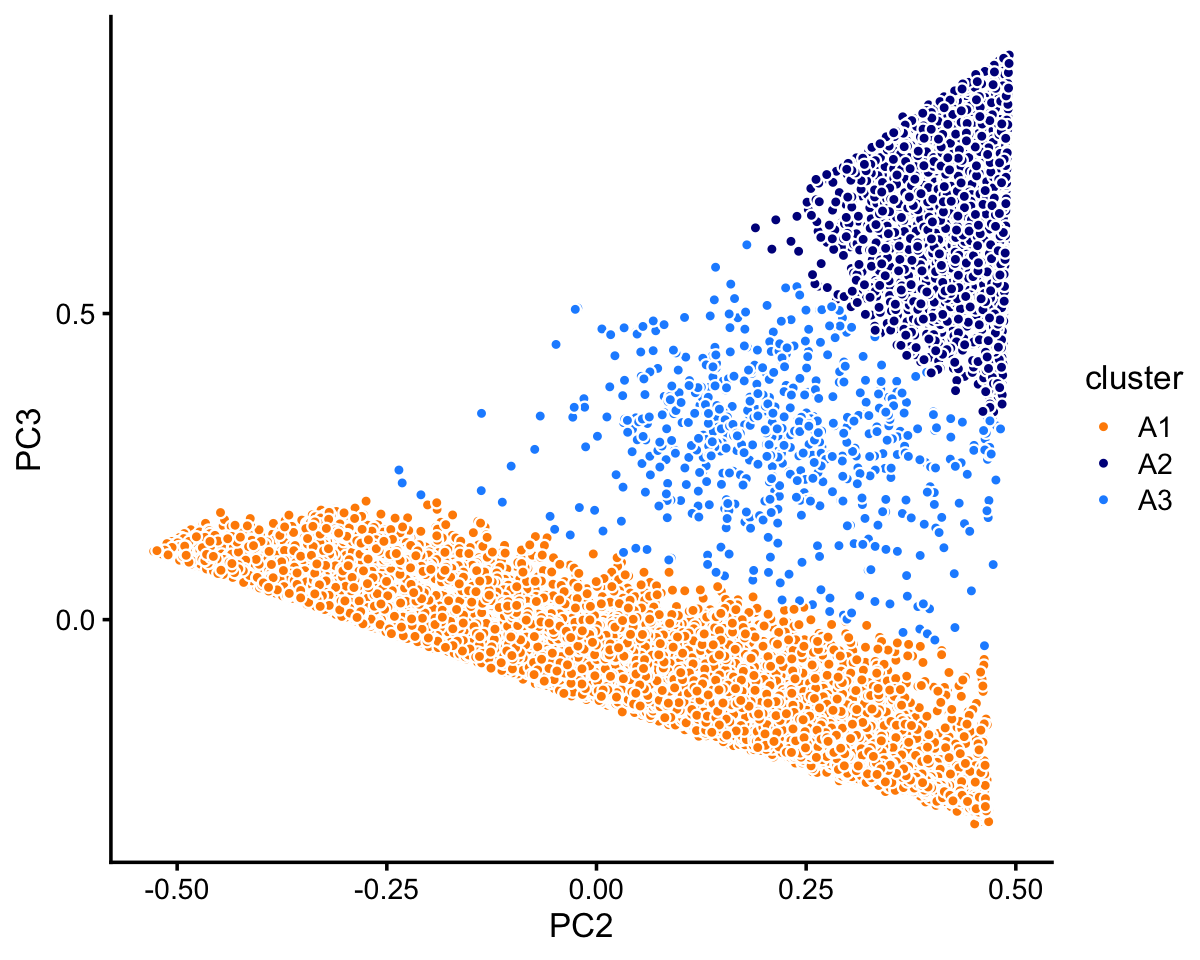
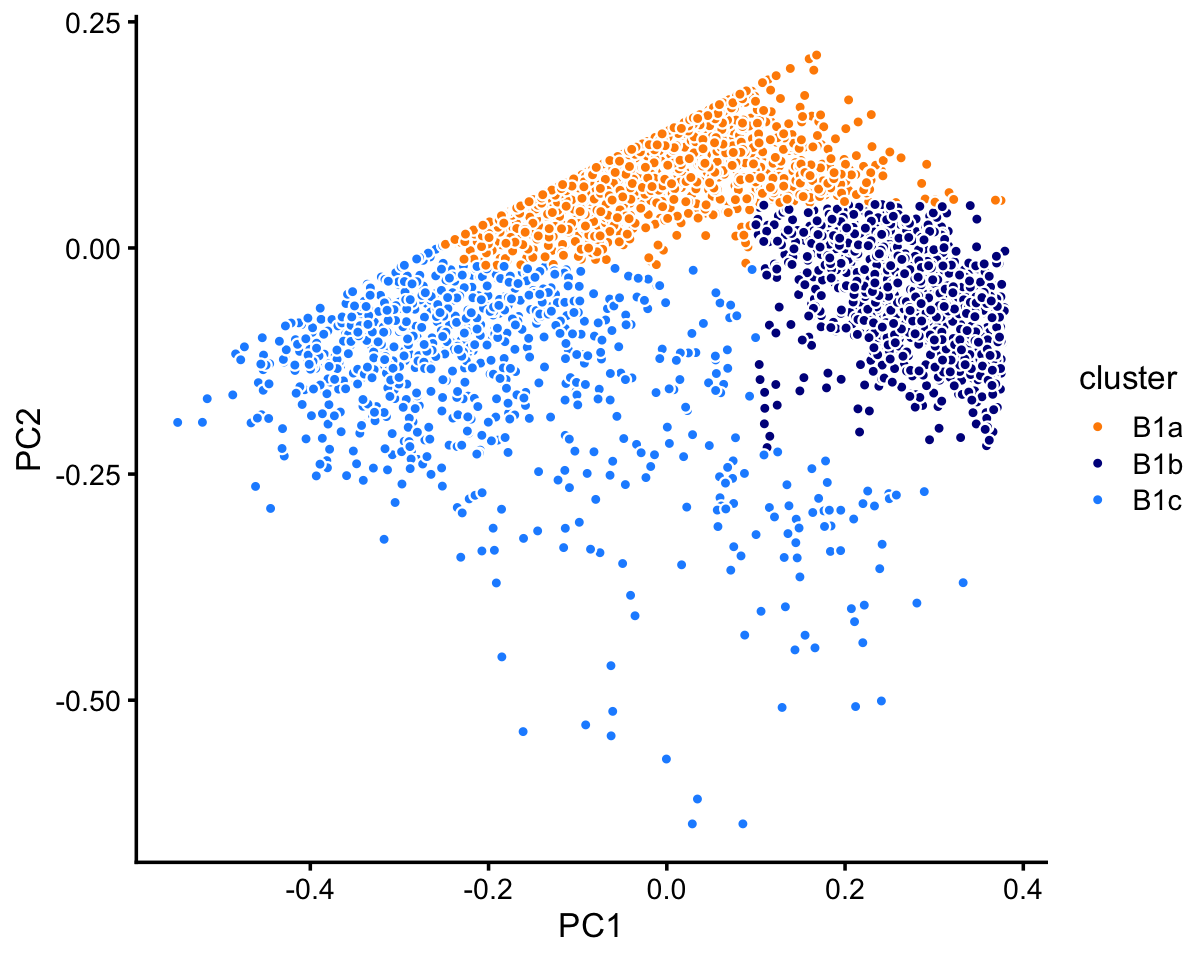
Added another few clusters to 68k fit, revised structure plot, and added crosstab plot.

diff --git a/docs/plots_pbmc.html b/docs/plots_pbmc.html
@@ -412,16 +412,16 @@ This reproducible <a href="http://rmarkdown.rstudio.com">R Markdown</a> analysis
 <div class="panel panel-default">
 <div class="panel-heading">
 <p class="panel-title">
-<a data-toggle="collapse" data-parent="#workflowr-checks" href="#strongRepositoryversionstrongahrefhttpsgithubcomstephenslabsinglecelltopicstreee8971d86164615e8337d2690a577bb3e6d465acdtargetblanke8971d8a"> <span class="glyphicon glyphicon-ok text-success" aria-hidden="true"></span> <strong>Repository version:</strong> <a href="https://github.com/stephenslab/single-cell-topics/tree/e8971d86164615e8337d2690a577bb3e6d465acd" target="_blank">e8971d8</a> </a>
+<a data-toggle="collapse" data-parent="#workflowr-checks" href="#strongRepositoryversionstrongahrefhttpsgithubcomstephenslabsinglecelltopicstree1a0c2d87fc7537d01c7bf1a36cdeb03684dfae90targetblank1a0c2d8a"> <span class="glyphicon glyphicon-ok text-success" aria-hidden="true"></span> <strong>Repository version:</strong> <a href="https://github.com/stephenslab/single-cell-topics/tree/1a0c2d87fc7537d01c7bf1a36cdeb03684dfae90" target="_blank">1a0c2d8</a> </a>
 </p>
 </div>
[2 lines of base64/hex data omitted]
 <div class="panel-body">
 <p>
 Great! You are using Git for version control. Tracking code development and connecting the code version to the results is critical for reproducibility.
 </p>
 <p>
-The results in this page were generated with repository version <a href="https://github.com/stephenslab/single-cell-topics/tree/e8971d86164615e8337d2690a577bb3e6d465acd" target="_blank">e8971d8</a>. See the <em>Past versions</em> tab to see a history of the changes made to the R Markdown and HTML files.
+The results in this page were generated with repository version <a href="https://github.com/stephenslab/single-cell-topics/tree/1a0c2d87fc7537d01c7bf1a36cdeb03684dfae90" target="_blank">1a0c2d8</a>. See the <em>Past versions</em> tab to see a history of the changes made to the R Markdown and HTML files.
 </p>
 <p>
 Note that you need to be careful to ensure that all relevant files for the analysis have been committed to Git prior to generating the results (you can use <code>wflow_publish</code> or <code>wflow_git_commit</code>). workflowr only checks the R Markdown file, but you know if there are other scripts or data files that it depends on. Below is the status of the Git repository when the results were generated:
@@ -478,6 +478,57 @@ Message
 </tr>
 </thead>
 <tbody>
+<tr>
+<td>
+Rmd
+</td>
+<td>
+<a href="https://github.com/stephenslab/single-cell-topics/blob/1a0c2d87fc7537d01c7bf1a36cdeb03684dfae90/analysis/plots_pbmc.Rmd" target="_blank">1a0c2d8</a>
+</td>
+<td>
+Peter Carbonetto
+</td>
+<td>
+2020-08-25
+</td>
+<td>
+workflowr::wflow_publish(“plots_pbmc.Rmd”)
+</td>
+</tr>
+<tr>
+<td>
+html
+</td>
+<td>
+<a href="https://rawcdn.githack.com/stephenslab/single-cell-topics/eac2d23a7e084d60d7821643a185ad2e45d8092a/docs/plots_pbmc.html" target="_blank">eac2d23</a>
+</td>
+<td>
+Peter Carbonetto
+</td>
+<td>
+2020-08-25
+</td>
+<td>
+Revised the cross-tab plot, and added notes to plots_pbmc analysis.
+</td>
+</tr>
+<tr>
+<td>
+html
+</td>
+<td>
+<a href="https://rawcdn.githack.com/stephenslab/single-cell-topics/2d156b8fefbcb1c1c65e7040c43eedff5fbf5657/docs/plots_pbmc.html" target="_blank">2d156b8</a>
+</td>
+<td>
+Peter Carbonetto
+</td>
+<td>
+2020-08-25
+</td>
+<td>
+Revised the cross-tab plot, and added notes to plots_pbmc analysis.
+</td>
+</tr>
 <tr>
 <td>
 Rmd
@@ -1530,6 +1581,7 @@ table(samples_purified$cluster)
 # 
 #    A1    A2     B    C1    C2    C3 
 #  8271 64343 10439  7822  2990   790</code></pre>
+<p>We also inspected principal components individually in each of these 6 clusters and we did not find any of clear examples of subclustering withing these clusters.</p>
 <p>The structure plot summarizes the topic proportions in each of these 6 clusters:</p>
 <pre class="r"><code>set.seed(1)
 pbmc_purified_topic_colors &lt;- c(&quot;gold&quot;,&quot;forestgreen&quot;,&quot;dodgerblue&quot;,
@@ -1571,6 +1623,28 @@ Date
 </tr>
 </thead>
 <tbody>
+<tr>
+<td>
+<a href="https://github.com/stephenslab/single-cell-topics/blob/eac2d23a7e084d60d7821643a185ad2e45d8092a/docs/figure/plots_pbmc.Rmd/pbmc-purified-structure-plot-1.png" target="_blank">eac2d23</a>
+</td>
+<td>
+Peter Carbonetto
+</td>
+<td>
+2020-08-25
+</td>
+</tr>
+<tr>
+<td>
+<a href="https://github.com/stephenslab/single-cell-topics/blob/2d156b8fefbcb1c1c65e7040c43eedff5fbf5657/docs/figure/plots_pbmc.Rmd/pbmc-purified-structure-plot-1.png" target="_blank">2d156b8</a>
+</td>
+<td>
+Peter Carbonetto
+</td>
+<td>
+2020-08-25
+</td>
+</tr>
 <tr>
 <td>
 <a href="https://github.com/stephenslab/single-cell-topics/blob/abb846e9e32e6a27cd74c5d5d0dc0ca2799d60f6/docs/figure/plots_pbmc.Rmd/pbmc-purified-structure-plot-1.png" target="_blank">abb846e</a>
@@ -1677,7 +1751,7 @@ Peter Carbonetto
 <p>Out of the 6 topics, 4 of them (<span class="math inline">\(k = 2, 3, 4, 5\)</span>) align closely with the clusters (labeled A1, B, C1, C2). And, indeed, they align closely with their inclusion in the individual FACS-purified data sets:</p>
 <pre class="r"><code>pdat &lt;- as.data.frame(with(samples_purified,table(celltype,cluster)))
 ggplot(pdat,aes(x = cluster,y = celltype,size = Freq)) +
-  geom_point(color = &quot;dodgerblue&quot;,show.legend = FALSE) +
+  geom_point(color = &quot;dodgerblue&quot;,na.rm = TRUE,show.legend = FALSE) +
   ylim(rev(levels(samples_purified$celltype))) +
   theme_cowplot(font_size = 10)</code></pre>
 <p><img src="figure/plots_pbmc.Rmd/pbmc-purified-clusters-vs-celltypes-1.png" width="480" style="display: block; margin: auto;" /></p>
@@ -1703,6 +1777,28 @@ Date
 </tr>
 </thead>
 <tbody>
+<tr>
+<td>
+<a href="https://github.com/stephenslab/single-cell-topics/blob/eac2d23a7e084d60d7821643a185ad2e45d8092a/docs/figure/plots_pbmc.Rmd/pbmc-purified-clusters-vs-celltypes-1.png" target="_blank">eac2d23</a>
+</td>
+<td>
+Peter Carbonetto
+</td>
+<td>
+2020-08-25
+</td>
+</tr>
+<tr>
+<td>
+<a href="https://github.com/stephenslab/single-cell-topics/blob/2d156b8fefbcb1c1c65e7040c43eedff5fbf5657/docs/figure/plots_pbmc.Rmd/pbmc-purified-clusters-vs-celltypes-1.png" target="_blank">2d156b8</a>
+</td>
+<td>
+Peter Carbonetto
+</td>
+<td>
+2020-08-25
+</td>
+</tr>
 <tr>
 <td>
 <a href="https://github.com/stephenslab/single-cell-topics/blob/abb846e9e32e6a27cd74c5d5d0dc0ca2799d60f6/docs/figure/plots_pbmc.Rmd/pbmc-purified-clusters-vs-celltypes-1.png" target="_blank">abb846e</a>
@@ -1733,11 +1829,11 @@ Peter Carbonetto
 <pre class="r"><code>load(&quot;../data/pbmc_68k.RData&quot;)
 samples_68k &lt;- samples
 rm(samples,genes,counts)</code></pre>
-<p>Load the <span class="math inline">\(k = 6\)</span> Poisson NMF model fit.</p>
-<pre class="r"><code>fit_68k &lt;- readRDS(&quot;../output/pbmc-68k/rds/fit-pbmc-68k-scd-ex-k=6.rds&quot;)$fit</code></pre>
-<pre class="r"><code>fit &lt;- poisson2multinom(fit_68k)
+<p>Load the <span class="math inline">\(k = 6\)</span> Poisson NMF model fit, and compute PCs from the topic proportions.</p>
+<pre class="r"><code>fit_68k &lt;- readRDS(&quot;../output/pbmc-68k/rds/fit-pbmc-68k-scd-ex-k=6.rds&quot;)$fit
+fit &lt;- poisson2multinom(fit_68k)
 pca &lt;- prcomp(fit$L)$x</code></pre>
-<p>In this case, we find least three distinct clusters in the projection onto PCs 3 and 4. We label these clusters “A”, “B” and “C”, as above, but this labeling does not imply a connection between the two sets of clusters.</p>
+<p>In this case, we find least three distinct clusters in the projection onto PCs 3 and 4. We label these clusters “A”, “B” and “C”, as above, noting that this labeling does not imply a connection with the purified PBMC clusters above.</p>
 <pre class="r"><code>n &lt;- nrow(pca)
 x &lt;- rep(&quot;A&quot;,n)
 pc3 &lt;- pca[,&quot;PC3&quot;]
@@ -1841,12 +1937,12 @@ Peter Carbonetto
 </table>
 </div>
 </div>
-<p>The vast majority of the cells are in cluster A:</p>
+<p>The vast majority of the cells are in cluster A.</p>
 <pre class="r"><code>table(samples_68k$cluster)
 # 
 #     A     B     C 
 # 63408  5006   165</code></pre>
-<p>Looking more closely at cluster B:</p>
+<p>Looking more closely at the top two PCs in cluster B, we identify two large clusters, with the remaining samples assigned to the “B3” subset.</p>
 <pre class="r"><code>rows &lt;- which(samples_68k$cluster == &quot;B&quot;)
 fit  &lt;- select(poisson2multinom(fit_68k),loadings = rows)
 pca  &lt;- prcomp(fit$L)$x
@@ -1908,18 +2004,18 @@ Peter Carbonetto
 </table>
 </div>
 </div>
-<p>Looking more closely at cluster A:</p>
-<pre class="r"><code>rows &lt;- which(samples_68k$cluster == &quot;A&quot;)
+<p><strong>TO DO:</strong> Add text here.</p>
+<pre class="r"><code>rows &lt;- which(samples_68k$cluster == &quot;B1&quot;)
 fit  &lt;- select(poisson2multinom(fit_68k),loadings = rows)
 pca  &lt;- prcomp(fit$L)$x
 n    &lt;- nrow(pca)
-x    &lt;- rep(&quot;A3&quot;,n)
+x    &lt;- rep(&quot;B1c&quot;,n)
+pc1  &lt;- pca[,&quot;PC1&quot;]
 pc2  &lt;- pca[,&quot;PC2&quot;]
-pc3  &lt;- pca[,&quot;PC3&quot;]
-x[2.5*pc3 &lt; 0.3 - pc2] &lt;- &quot;A1&quot;
-x[pc3 &gt; 0.8 - pc2] &lt;- &quot;A2&quot;
+x[pc2 &gt; -0.02 &amp; pc1 &gt; -0.25] &lt;- &quot;B1a&quot;
+x[pc1 &gt; 0.1 &amp; pc2 &lt; 0.05 &amp; pc2 &gt; -0.225] &lt;- &quot;B1b&quot;
 samples_68k[rows,&quot;cluster&quot;] &lt;- x
-p7 &lt;- pca_plot_with_labels(fit,c(&quot;PC2&quot;,&quot;PC3&quot;),x) +
+p7 &lt;- pca_plot_with_labels(fit,c(&quot;PC1&quot;,&quot;PC2&quot;),x) +
       labs(fill = &quot;cluster&quot;)
 print(p7)</code></pre>
 <p><img src="figure/plots_pbmc.Rmd/pbmc-68k-clustering-5-1.png" width="600" style="display: block; margin: auto;" /></p>
@@ -1971,6 +2067,21 @@ Peter Carbonetto
 </table>
 </div>
 </div>
+<p>Cluster A subdivides fairly neatly into two large clusters, A1 and A2.</p>
+<pre class="r"><code>rows &lt;- which(samples_68k$cluster == &quot;A&quot;)
+fit  &lt;- select(poisson2multinom(fit_68k),loadings = rows)
+pca  &lt;- prcomp(fit$L)$x
+n    &lt;- nrow(pca)
+x    &lt;- rep(&quot;A3&quot;,n)
+pc2  &lt;- pca[,&quot;PC2&quot;]
+pc3  &lt;- pca[,&quot;PC3&quot;]
+x[2.5*pc3 &lt; 0.3 - pc2] &lt;- &quot;A1&quot;
+x[pc3 &gt; 0.8 - pc2] &lt;- &quot;A2&quot;
+samples_68k[rows,&quot;cluster&quot;] &lt;- x
+p7 &lt;- pca_plot_with_labels(fit,c(&quot;PC2&quot;,&quot;PC3&quot;),x) +
+      labs(fill = &quot;cluster&quot;)
+print(p7)</code></pre>
+<p><img src="figure/plots_pbmc.Rmd/pbmc-68k-clustering-6-1.png" width="600" style="display: block; margin: auto;" /></p>
 <p>Within cluster A, the vast majority of the samples are assigned to the A1 subcluster:</p>
 <pre class="r"><code>table(x)
 # x
@@ -1980,17 +2091,20 @@ Peter Carbonetto
 <pre class="r"><code>samples_68k$cluster &lt;- factor(samples_68k$cluster)
 table(samples_68k$cluster)
 # 
-#    A1    A2    A3    B1    B2    B3     C 
-# 59260  3555   593  3869   819   318   165</code></pre>
+#    A1    A2    A3   B1a   B1b   B1c    B2    B3     C 
+# 59260  3555   593  2115   947   807   819   318   165</code></pre>
+<p>The wide range in the sizes of these clusters is notable; the smallest cluster (C) is less than 1% the size of the largest (A1). By contrast, community detection methods such as the Louvain algorithm often have difficulty identifying very small clusters.</p>
 <p><strong>TO DO:</strong> Add text here.</p>
 <pre class="r"><code>set.seed(1)
-pbmc_68k_topic_colors &lt;- c(&quot;gold&quot;,&quot;lightskyblue&quot;,&quot;dodgerblue&quot;,
-                           &quot;gray&quot;,&quot;forestgreen&quot;,&quot;magenta&quot;)
+pbmc_68k_topic_colors &lt;- c(&quot;yellow&quot;,&quot;lightskyblue&quot;,&quot;salmon&quot;,
+                           &quot;firebrick&quot;,&quot;royalblue&quot;,&quot;olivedrab&quot;)
 pbmc_68k_topics &lt;- c(2,5,1,3,4,6)
 rows &lt;- sort(c(sample(which(samples_68k$cluster == &quot;A1&quot;),1200),
                sample(which(samples_68k$cluster == &quot;A2&quot;),500),
                sample(which(samples_68k$cluster == &quot;A3&quot;),300),
-               sample(which(samples_68k$cluster == &quot;B1&quot;),500),
+               sample(which(samples_68k$cluster == &quot;B1a&quot;),500),
+               sample(which(samples_68k$cluster == &quot;B1b&quot;),300),
+               sample(which(samples_68k$cluster == &quot;B1c&quot;),300),
                sample(which(samples_68k$cluster == &quot;B2&quot;),300),
                which(samples_68k$cluster == &quot;B3&quot;),
                which(samples_68k$cluster == &quot;C&quot;)))
@@ -1998,13 +2112,10 @@ p8 &lt;- structure_plot(select(poisson2multinom(fit_68k),loadings = rows),
                      grouping = samples_68k[rows,&quot;cluster&quot;],
                      topics = pbmc_68k_topics,
                      colors = pbmc_68k_topic_colors[pbmc_68k_topics],
-                     gap = 40,num_threads = 4,verbose = FALSE)
-# Perplexity automatically changed to 59 because original setting of 100 was too large for the number of samples (183)
-# Perplexity automatically changed to 59 because original setting of 100 was too large for the number of samples (183)
-# Perplexity automatically changed to 63 because original setting of 100 was too large for the number of samples (194)
-# Perplexity automatically changed to 32 because original setting of 100 was too large for the number of samples (101)
+                     perplexity = c(100,100,50,100,80,80,80,80,50),
+                     n = Inf,gap = 32,num_threads = 4,verbose = FALSE)
 print(p8)</code></pre>
-<p><img src="figure/plots_pbmc.Rmd/pbmc-68k-structure-plot-1.png" width="840" style="display: block; margin: auto;" /></p>
+<p><img src="figure/plots_pbmc.Rmd/pbmc-68k-structure-plot-1.png" width="900" style="display: block; margin: auto;" /></p>
 <p>
 <button type="button" class="btn btn-default btn-xs btn-workflowr btn-workflowr-fig" data-toggle="collapse" data-target="#fig-pbmc-68k-structure-plot-1">
 Past versions of pbmc-68k-structure-plot-1.png
@@ -2098,20 +2209,12 @@ Peter Carbonetto
 </div>
 </div>
 <p>Comparison to Zheng et al (2017) cell-type labeling:</p>
-<pre class="r"><code>with(samples_68k,table(celltype,cluster))
-#                               cluster
-# celltype                          A1    A2    A3    B1    B2    B3     C
-#   CD14+ Monocyte                   7     0     2  2804     1    46     2
-#   CD19+ B                       1981  3547   342     0    37     1     0
-#   CD34+                           11     3    49    21    21     9   163
-#   CD4+ T Helper2                  66     0    17     6     8     0     0
-#   CD4+/CD25 T Reg               6157     0    28     2     0     0     0
-#   CD4+/CD45RA+/CD25- Naive T    1863     1     4     0     3     2     0
-#   CD4+/CD45RO+ Memory           3058     0     1     2     0     0     0
-#   CD56+ NK                      8733     0    25     6     1    11     0
-#   CD8+ Cytotoxic T             20658     1    88    17     0     9     0
-#   CD8+/CD45RA+ Naive Cytotoxic 16648     0    10     0     5     3     0
-#   Dendritic                       78     3    27  1011   743   237     0</code></pre>
+<pre class="r"><code>pdat &lt;- as.data.frame(with(samples_68k,table(celltype,cluster)))
+ggplot(pdat,aes(x = cluster,y = celltype,size = Freq)) +
+  geom_point(color = &quot;dodgerblue&quot;,na.rm = TRUE,show.legend = FALSE) +
+  ylim(rev(levels(samples_purified$celltype))) +
+  theme_cowplot(font_size = 10)</code></pre>
+<p><img src="figure/plots_pbmc.Rmd/pbmc-68k-clusters-vs-celltypes,-1.png" width="540" style="display: block; margin: auto;" /></p>
 <br>
 <p>
 <button type="button" class="btn btn-default btn-workflowr btn-workflowr-sessioninfo" data-toggle="collapse" data-target="#workflowr-sessioninfo" style="display: block;">
